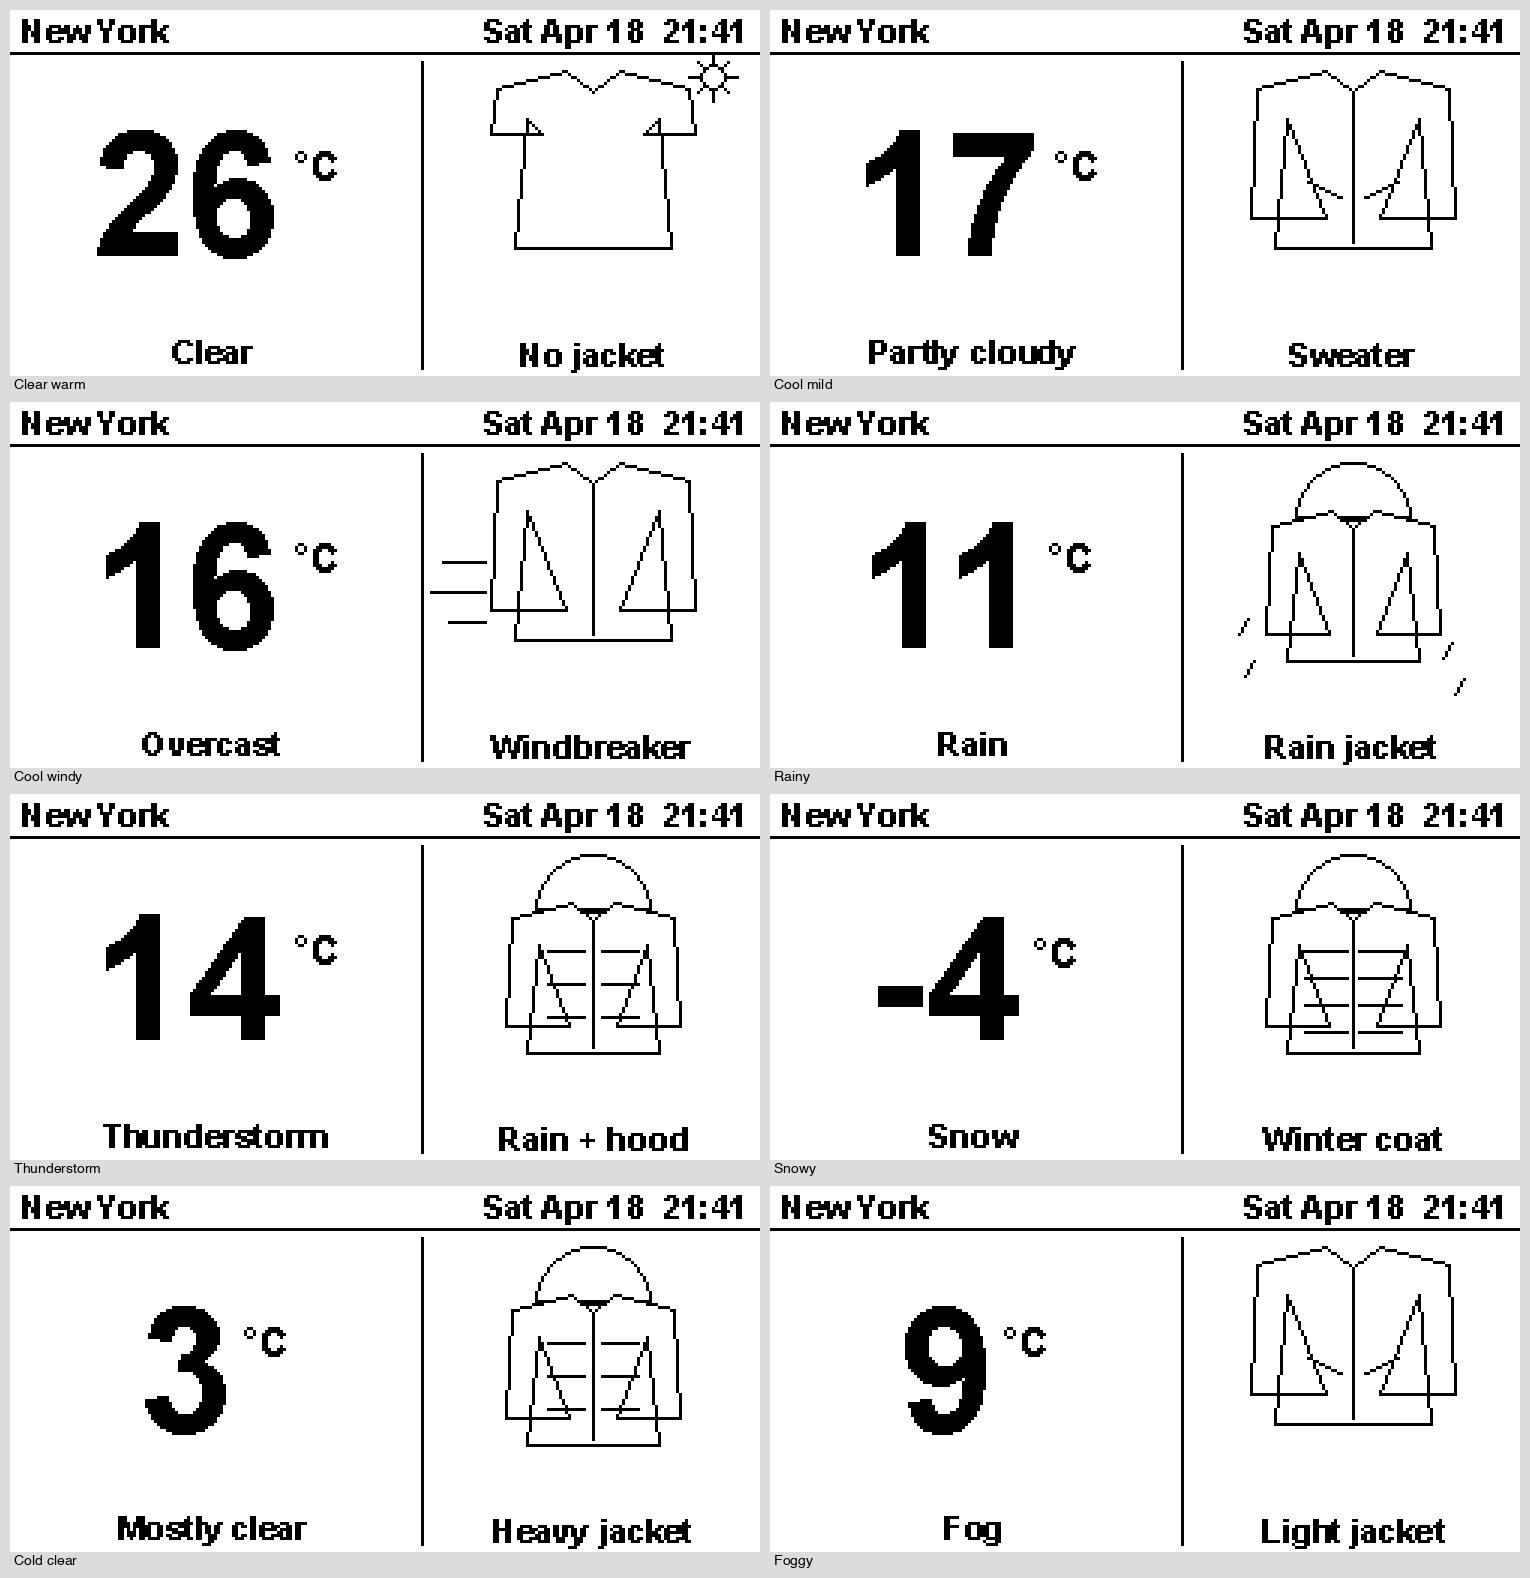
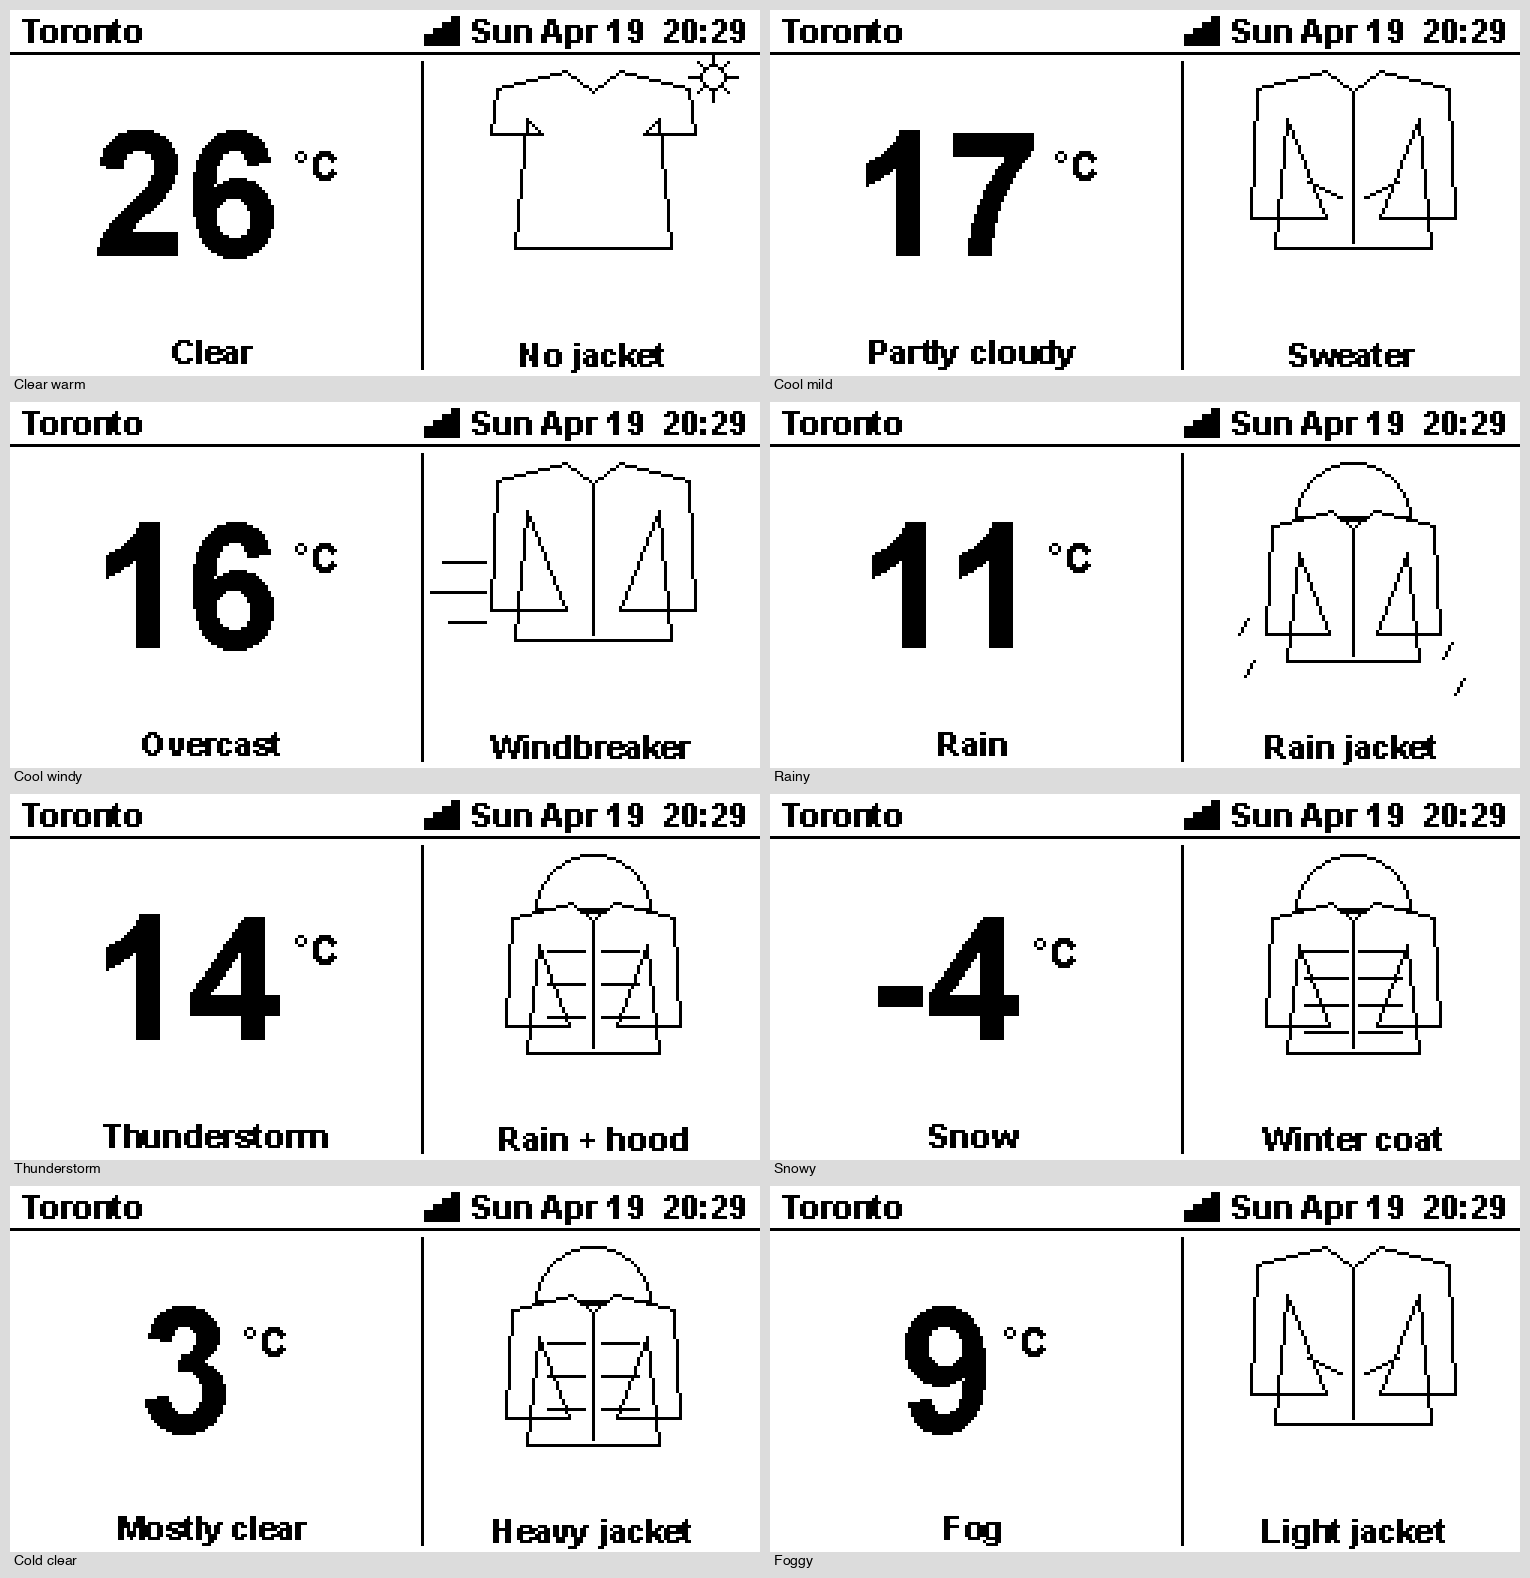
added wifi indicator

diff --git a/weather_epaper.py b/weather_epaper.py
@@ -87,6 +87,59 @@ def fetch_weather():
         return json.loads(resp.read().decode())
 
 
+def wifi_status():
+    """Return (connected, bars) where bars is 0..4. Uses /proc/net/wireless
+    on Linux; falls back to a socket reachability probe elsewhere."""
+    try:
+        with open("/proc/net/wireless") as f:
+            lines = f.readlines()
+        for line in lines[2:]:
+            parts = line.split()
+            if len(parts) < 3:
+                continue
+            try:
+                quality = float(parts[2].rstrip("."))
+            except ValueError:
+                continue
+            if quality >= 55:
+                bars = 4
+            elif quality >= 40:
+                bars = 3
+            elif quality >= 25:
+                bars = 2
+            elif quality > 0:
+                bars = 1
+            else:
+                bars = 0
+            return (True, bars)
+    except Exception:
+        pass
+    try:
+        import socket
+        s = socket.create_connection(("8.8.8.8", 53), timeout=1)
+        s.close()
+        return (True, 3)
+    except Exception:
+        return (False, 0)
+
+
+def draw_wifi_icon(draw, x, y, connected, bars):
+    """Draw a small 4-bar wifi icon with top-left at (x, y). ~12x9 px."""
+    if not connected:
+        draw.rectangle((x, y + 1, x + 11, y + 9), outline=0)
+        draw.line((x + 1, y + 2, x + 10, y + 8), fill=0)
+        draw.line((x + 1, y + 8, x + 10, y + 2), fill=0)
+        return
+    heights = (3, 5, 7, 9)
+    for i, h in enumerate(heights):
+        bx = x + i * 3
+        top = y + (9 - h)
+        if i < bars:
+            draw.rectangle((bx, top, bx + 2, y + 9), fill=0)
+        else:
+            draw.rectangle((bx, top, bx + 2, y + 9), outline=0)
+
+
 def wait_for_network():
     deadline = time.time() + NETWORK_WAIT_SECONDS
     while time.time() < deadline:
@@ -350,9 +403,10 @@ def draw_jacket(draw, cx, cy, r, kind):
             draw.line((x0, y0, x1, y1), fill=0, width=1)
 
 
-def make_frame(width, height, data):
+def make_frame(width, height, data, wifi=(True, 4)):
     img = Image.new('1', (width, height), 255)
     draw = ImageDraw.Draw(img)
+    wifi_connected, wifi_bars = wifi
 
     cur = data.get("current", {})
     code = cur.get("weather_code", 0)
@@ -373,7 +427,9 @@ def make_frame(width, height, data):
     now = datetime.now().strftime("%a %b %d  %H:%M")
     draw.text((4, 1), LOCATION_NAME, fill=0, font=font_sm)
     tw = draw.textlength(now, font=font_sm)
-    draw.text((width - tw - 4, 1), now, fill=0, font=font_sm)
+    time_x = width - tw - 4
+    draw.text((time_x, 1), now, fill=0, font=font_sm)
+    draw_wifi_icon(draw, time_x - 16, 2, wifi_connected, wifi_bars)
     draw.line((0, header_h, width, header_h), fill=0, width=1)
 
     # Vertical split: left = temp + condition, right = jacket recommendation.
@@ -525,7 +581,7 @@ def main():
                 else:
                     try:
                         data = fetch_weather()
-                        epd.display(epd.getbuffer(make_frame(w, h, data)))
+                        epd.display(epd.getbuffer(make_frame(w, h, data, wifi=wifi_status())))
                     except Exception as e:
                         logging.error("fetch failed: %s", e)
                         epd.display(epd.getbuffer(make_error_frame(w, h, str(e))))
